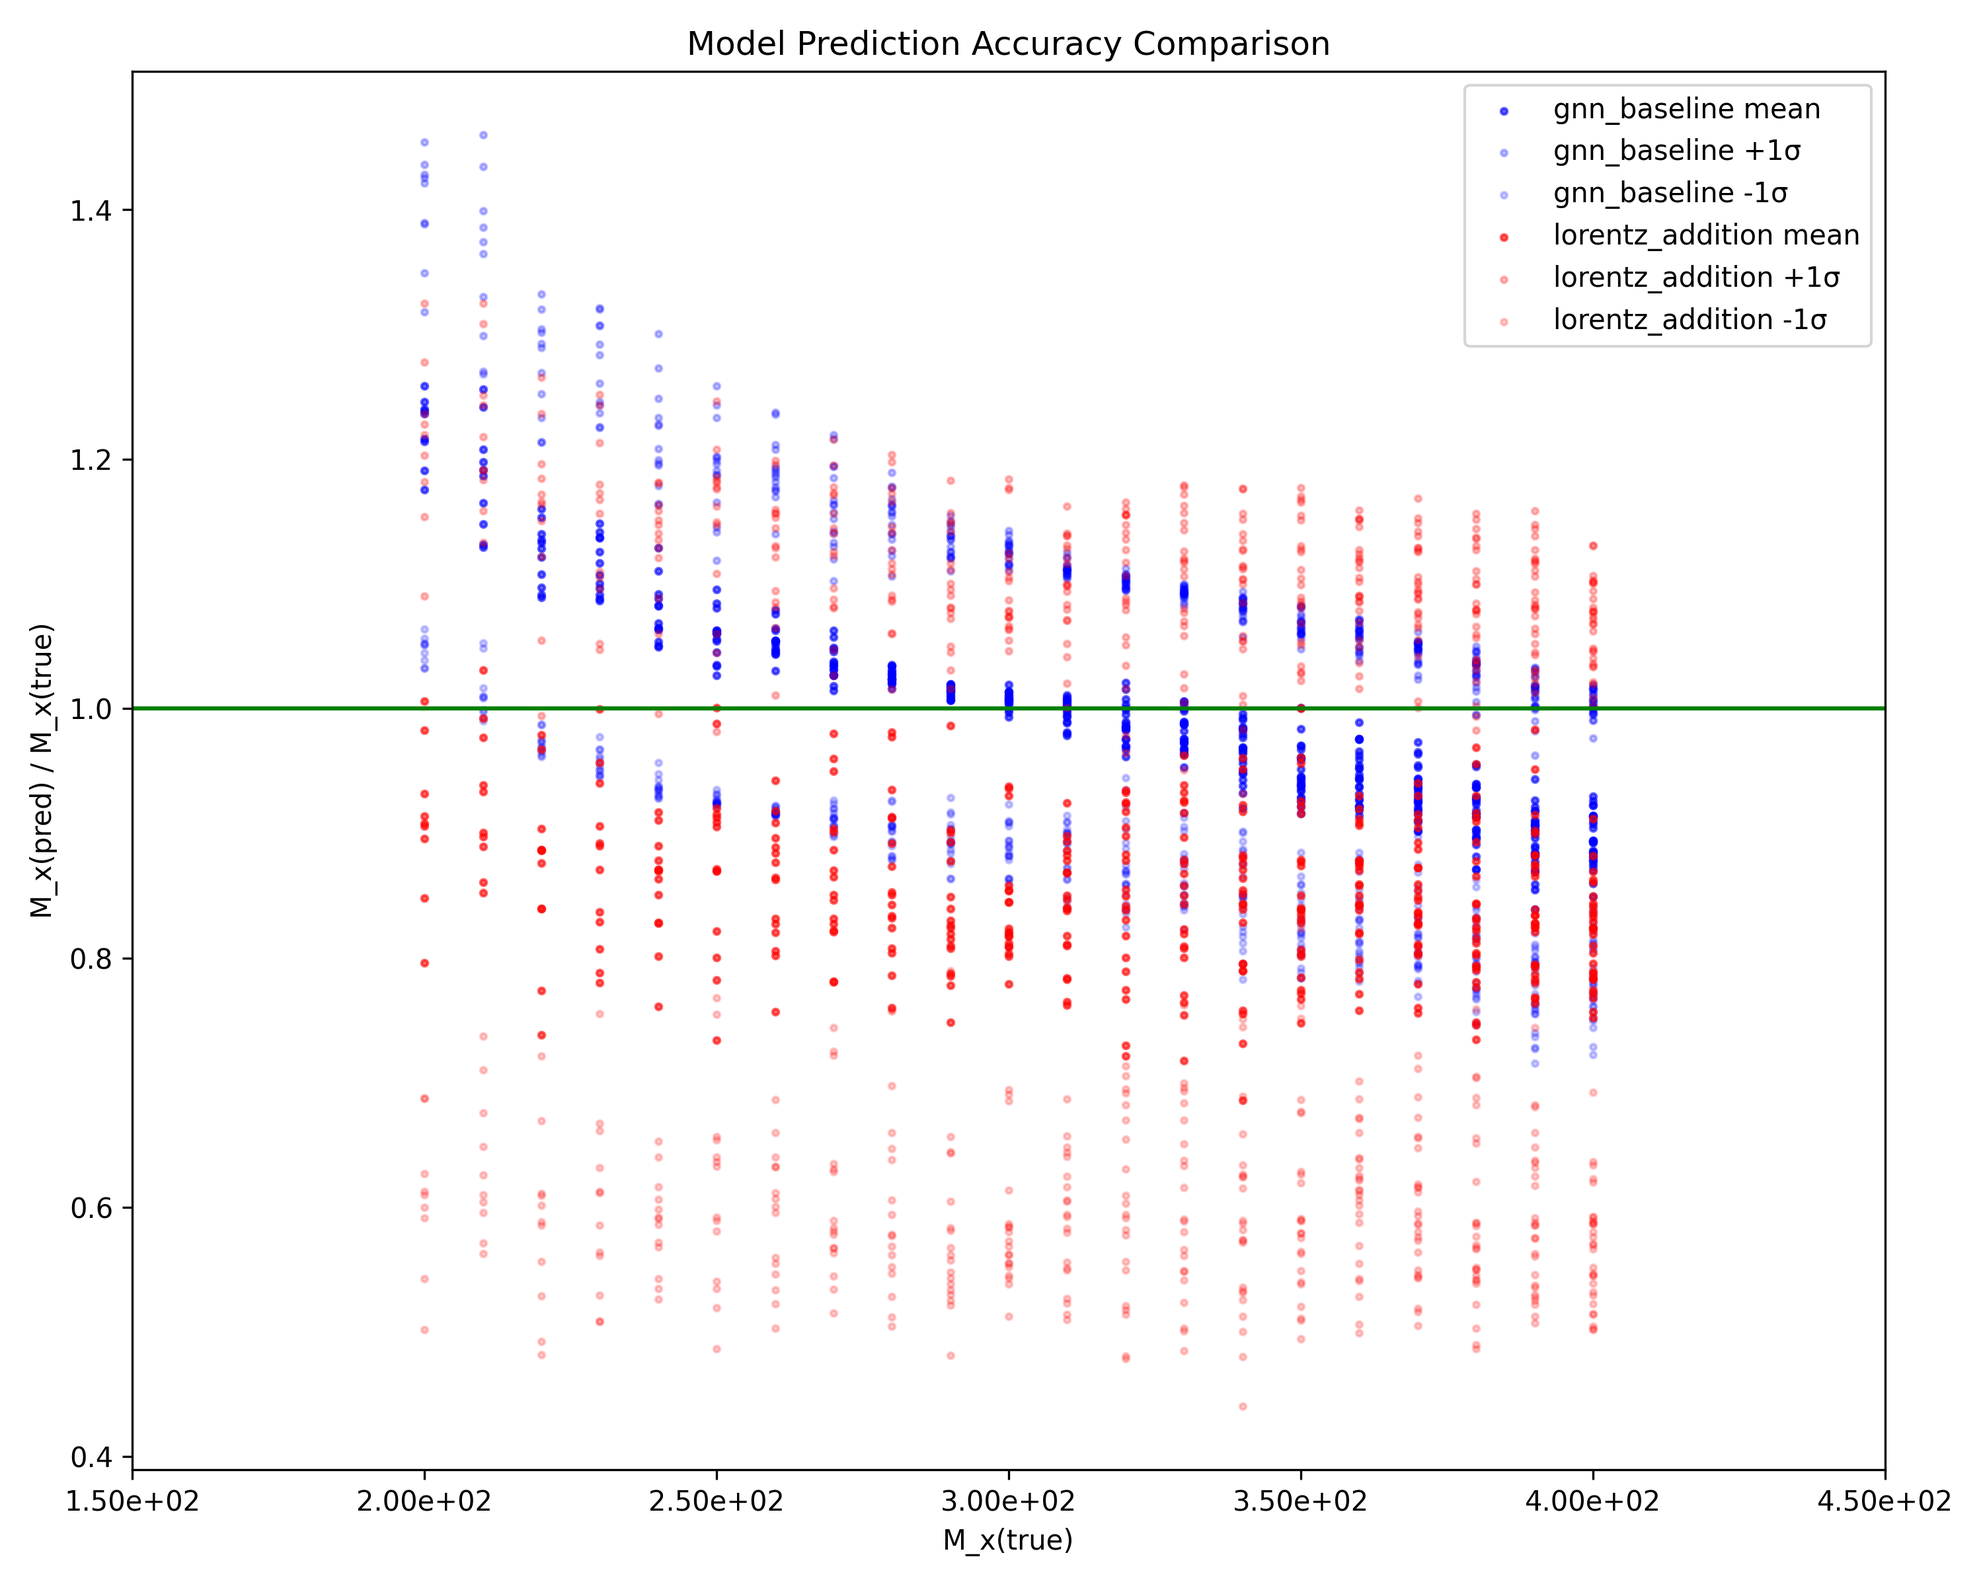
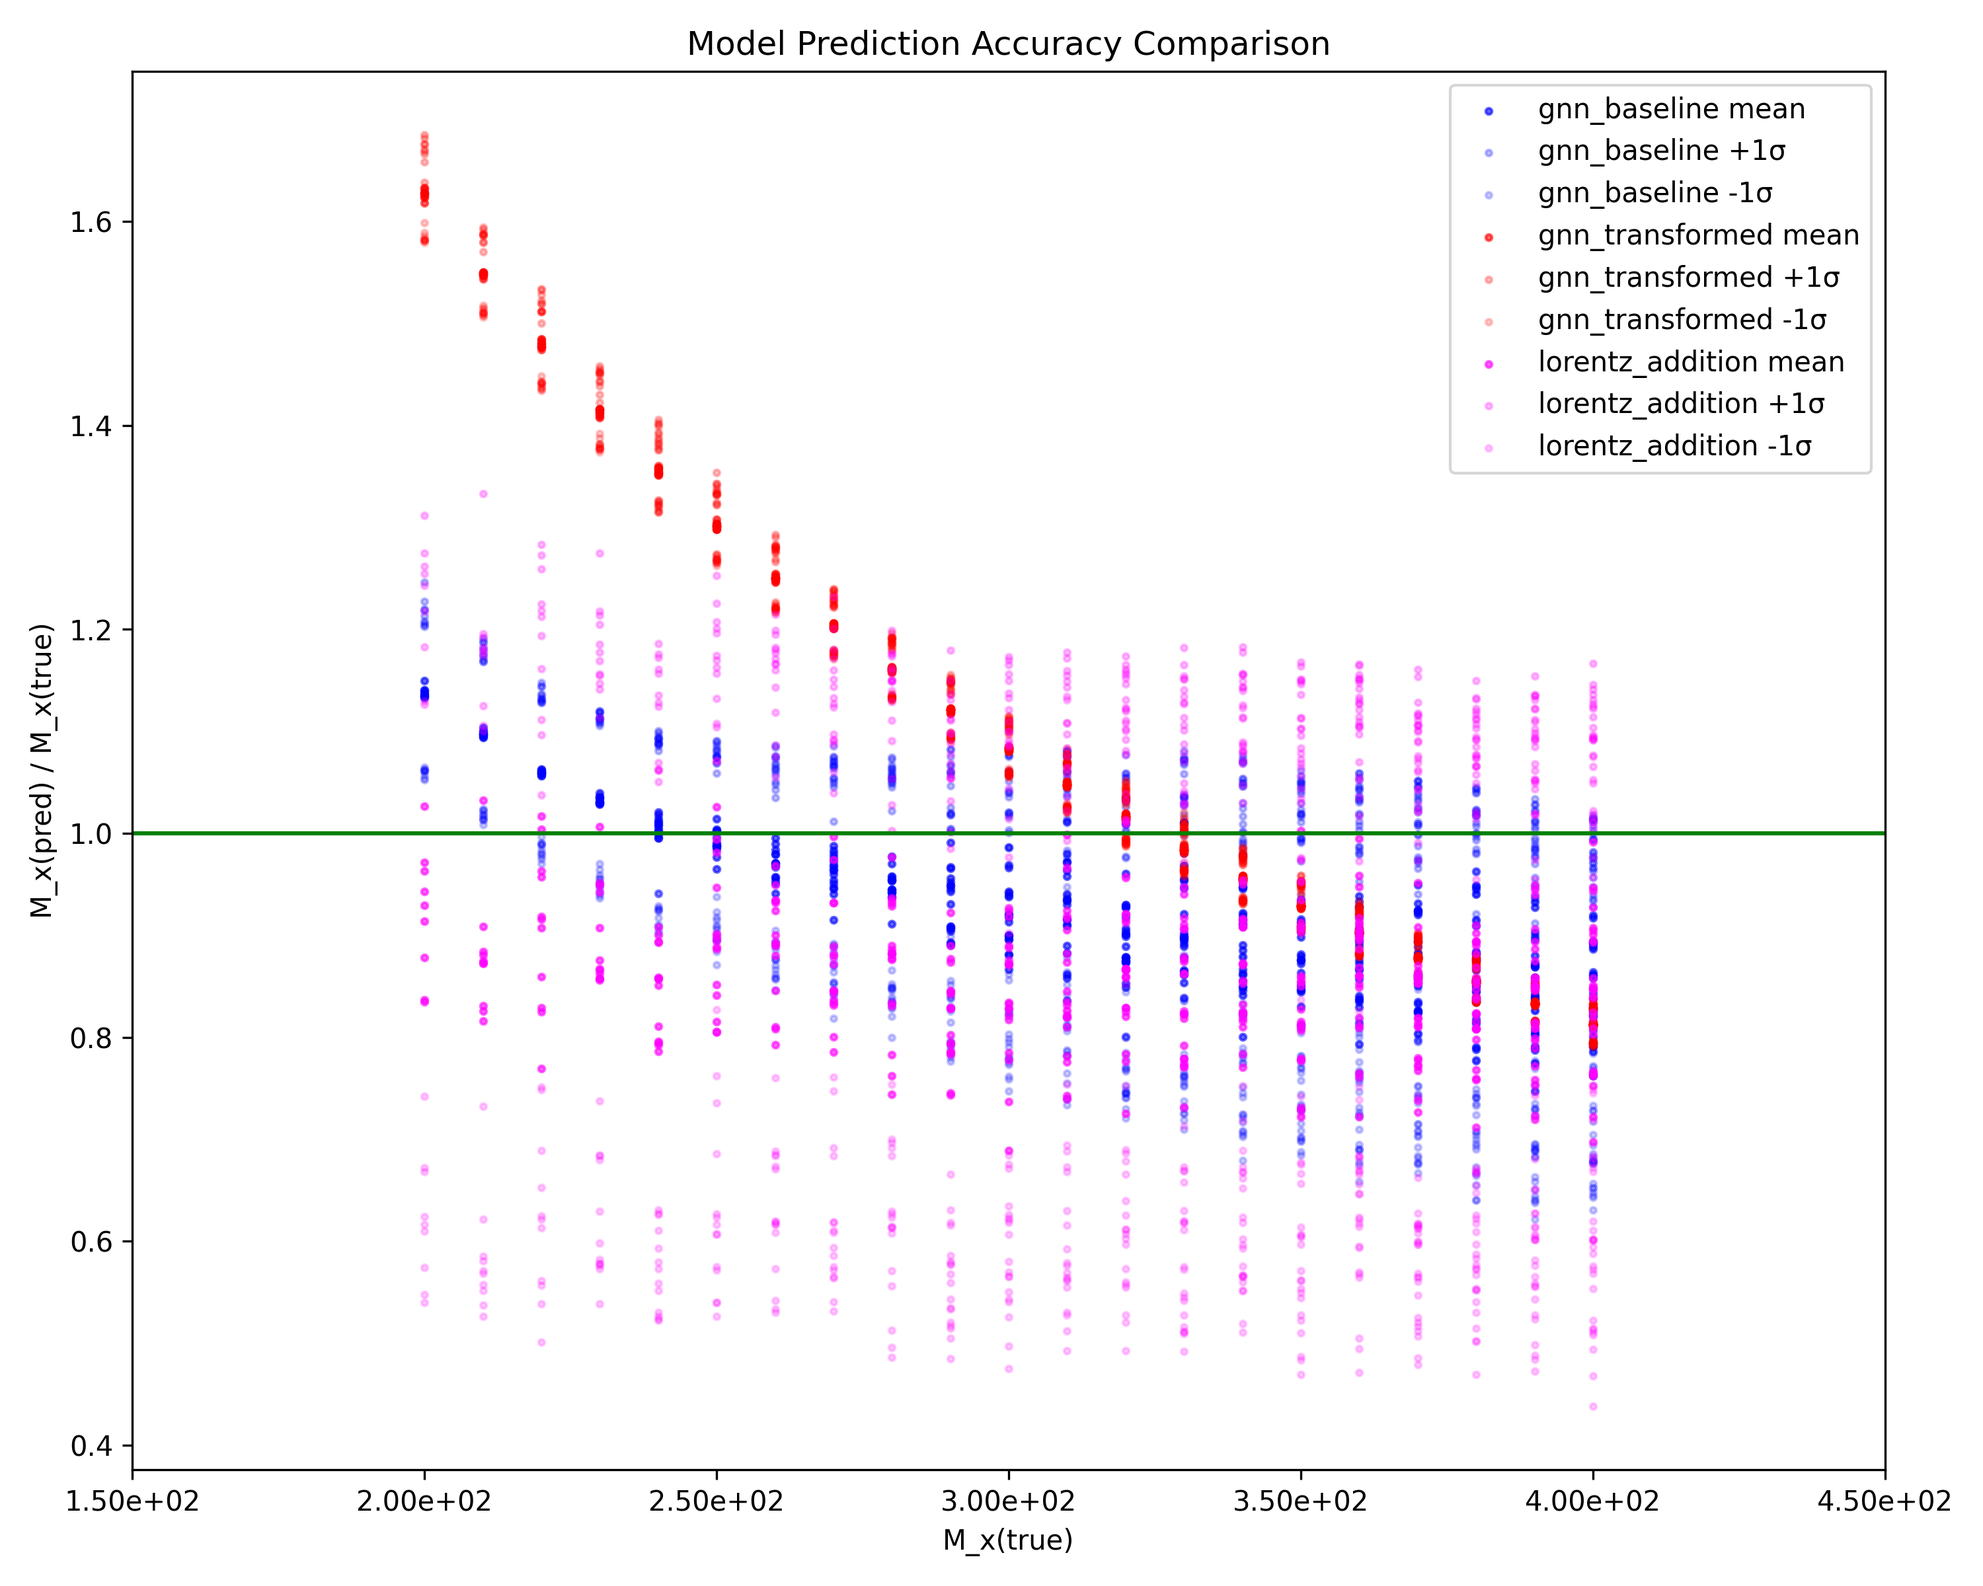
updating and documenting evaluation modules

diff --git a/model_comparison/transformed_same_event_type.py b/model_comparison/transformed_same_event_type.py
@@ -1,5 +1,19 @@
+"""
+Module Name: model_comparison/transformed_same_event_type
+
+Description:
+    Identical evaluation as same_event_type, a file by file comparison of models' performance. However, this module
+    first applies an augmentation to the input data.
+
+Usage:
+Author:
+Date:
+License:
+"""
 import os
 import sys
+
+os.environ['TF_CPP_MIN_LOG_LEVEL'] = '2'
 
 SCRIPT_DIR = os.path.dirname(os.path.abspath(__file__))
 ROOT_DIR = os.path.dirname(SCRIPT_DIR)
@@ -34,10 +48,19 @@ def main():
     
     gnn_baseline_model_path = os.path.join(ROOT_DIR, "gnn_baseline", f"model_{config.RUN_ID}", "best_model.keras")
     gnn_baseline_model = tf.keras.models.load_model(gnn_baseline_model_path)
+
+    gnn_transformed_model_path = os.path.join(ROOT_DIR, "gnn_transformed", f"model_{config.RUN_ID}", "best_model.keras")
+    gnn_transformed_model = tf.keras.models.load_model(gnn_transformed_model_path)
     
     # Setup model performance dictionary
     model_performance_dict = {
         "gnn_baseline": {
+            "M_x(true)": [],
+            "mean": [],
+            "+1σ": [],
+            "-1σ": [],
+        },
+        "gnn_transformed": {
             "M_x(true)": [],
             "mean": [],
             "+1σ": [],
@@ -55,25 +78,29 @@ def main():
     same_event_type_metrics = {}
     
     # Iterate across each file
-    for name in os.listdir(os.path.join(config.PROCESSED_DATA_DIRECTORY, "test")):
+    progress_bar = tqdm(os.listdir(os.path.join(config.PROCESSED_DATA_DIRECTORY, "test")))
+    for name in progress_bar:
+        progress_bar.set_description(f"Processing file {name}")
+        
         # Load in unscaled/untransposed data
-        print(f"Processing file {name}")
         test = np.load(os.path.join(config.PROCESSED_DATA_DIRECTORY, "test", name))
         X_test = test['X']
         y_test_flattened = test['y']
-        y_test = y_test_flattened.reshape(-1, 1)
 
-        # Predictions given by gnn_baseline
         X_test_scaled = scale_data(X_test, scalers, [0, 1, 2])
         X_test_scaled = X_test_scaled.transpose(0, 2, 1)
+        y_test = y_test_flattened.reshape(-1, 1)
+
+        test_batches = int(len(X_test_scaled) // config.BATCHSIZE)
         test_transformed = create_transformed_dataset(
             X_test_scaled, y_test, batchsize=config.BATCHSIZE, n_features=config.N_FEATURES
         )
-        test_batches = int(len(X_test_scaled) // config.BATCHSIZE)
+        test_transformed = test_transformed.take(test_batches)
 
+        # Predictions given by gnn_baseline
         y_gnn_baseline_list = []
         y_true_list = []
-        for features, labels in tqdm(test_transformed, desc="Processing batches", total=test_batches):
+        for features, labels in test_transformed:
             y_gnn_baseline_batch_scaled = gnn_baseline_model.predict(features, verbose=0)
             y_gnn_baseline_batch = y_scaler.inverse_transform(y_gnn_baseline_batch_scaled).flatten()
             y_gnn_baseline_list.append(y_gnn_baseline_batch)
@@ -88,18 +115,34 @@ def main():
         model_performance_dict["gnn_baseline"]["+1σ"].append(gnn_baseline_mean + gnn_baseline_std)
         model_performance_dict["gnn_baseline"]["-1σ"].append(gnn_baseline_mean - gnn_baseline_std)
 
+        # Predictions given by gnn_transformed
+        y_gnn_transformed_list = []
+        for features, labels in test_transformed:
+            y_gnn_transformed_batch_scaled = gnn_transformed_model.predict(features, verbose=0)
+            y_gnn_transformed_batch = y_scaler.inverse_transform(y_gnn_transformed_batch_scaled).flatten()
+            y_gnn_transformed_list.append(y_gnn_transformed_batch)
+        y_gnn_transformed = np.concatenate(y_gnn_transformed_list)
+        
+        gnn_transformed_mean = np.mean(y_gnn_transformed)
+        gnn_transformed_std = np.std(y_gnn_transformed)
+        model_performance_dict["gnn_transformed"]["M_x(true)"].append(y_true[0])
+        model_performance_dict["gnn_transformed"]["mean"].append(gnn_transformed_mean)
+        model_performance_dict["gnn_transformed"]["+1σ"].append(gnn_transformed_mean + gnn_transformed_std)
+        model_performance_dict["gnn_transformed"]["-1σ"].append(gnn_transformed_mean - gnn_transformed_std)
+
         # Predictions given by lorentz addition
         X_orig = X_test.transpose(0, 2, 1)
         orig_test_transformed = create_transformed_dataset(
             X_orig, y_test, batchsize=config.BATCHSIZE, n_features=config.N_FEATURES
         )
+        orig_test_transformed = orig_test_transformed.take(test_batches)
 
         y_lorentz_list = []
-        for features, labels in tqdm(orig_test_transformed, desc="Processing batches", total=test_batches):
+        for features, labels in orig_test_transformed:
             particles = features.numpy().transpose(0, 2, 1)
             particle_masses = np.zeros((particles.shape[0], particles.shape[1]))
-            y = vectorized_lorentz_addition(particles, particle_masses)
-            y_lorentz_list.append(y)
+            y_lorentz_batch = vectorized_lorentz_addition(particles, particle_masses)
+            y_lorentz_list.append(y_lorentz_batch)
         y_lorentz = np.concatenate(y_lorentz_list).flatten()
 
         lorentz_mean = np.mean(y_lorentz)
@@ -111,11 +154,13 @@ def main():
 
         # Log metrics and visualize selected event types
         if name in config.EVAL_DATA_FILES:
-            model_metrics = calculate_metrics(y_true, y_gnn_baseline, "gnn_baseline")
+            gnn_baseline_model_metrics = calculate_metrics(y_true, y_gnn_baseline, "gnn_baseline")
+            gnn_transformed_model_metrics = calculate_metrics(y_true, y_gnn_transformed, "gnn_transformed")
             lorentz_metrics = calculate_metrics(y_true, y_lorentz, "lorentz_addition")
 
             metrics = {
-                **model_metrics,
+                **gnn_baseline_model_metrics,
+                **gnn_transformed_model_metrics,
                 **lorentz_metrics
             }
             same_event_type_metrics[name[5:-4]] = metrics
@@ -130,6 +175,18 @@ def main():
                 title=f"Mass Regression for {name}",
                 x_label="Mass (GeV / c^2)",
                 filename=os.path.join(SCRIPT_DIR, f"transformed_dual_histograms/{name[5:-4]}.png")
+            )
+
+            create_2var_histogram_with_marker(
+                data1=y_gnn_transformed,
+                data_label1="GNN Transformed Prediction",
+                data2=y_gnn_baseline,
+                data_label2="GNN Baseline Prediction",
+                marker=y_true[0],
+                marker_label="True Mass",
+                title=f"Mass Regression for {name}",
+                x_label="Mass (GeV / c^2)",
+                filename=os.path.join(SCRIPT_DIR, f"transformed_dual_histograms/{name[5:-4]}_gnn.png")
             )
     
     compare_performance_all(

diff --git a/model_comparison/transformed_full_dataset.py b/model_comparison/transformed_full_dataset.py
@@ -1,3 +1,15 @@
+"""
+Module Name: model_comparison/full_dataset
+
+Description:
+    Identical evaluation as full_dataset, a comparison of models' performance on the full
+    test dataset. However, this module first applies an augmentation to the input data.
+
+Usage:
+Author:
+Date:
+License:
+"""
 import os
 import sys
 
@@ -24,23 +36,40 @@ def main():
 
     test_size = len(X)
     test_batches = int(test_size // config.BATCHSIZE)
+
     test_transformed = create_transformed_dataset(X, y, batchsize=config.BATCHSIZE, n_features=config.N_FEATURES)
-    
+    test_transformed = test_transformed.take(test_batches)
+
     gnn_baseline_model_path = os.path.join(config.ROOT_DIR, "gnn_baseline", f"model_{config.RUN_ID}", "best_model.keras")
-    model = tf.keras.models.load_model(gnn_baseline_model_path)
+    gnn_baseline_model = tf.keras.models.load_model(gnn_baseline_model_path)
 
     with open(os.path.join(config.PROCESSED_DATA_DIRECTORY, "y_scaler.pkl"), 'rb') as f:
         y_scaler = pickle.load(f)
     
     y_gnn_baseline_list = []
     y_true_list = []
-    for features, labels in tqdm(test_transformed, desc="Processing batches", total=test_batches):
-        y_gnn_baseline_batch_scaled = model.predict(features, verbose=0)
+    for features, labels in tqdm(test_transformed, desc="GNN Baseline", total=test_batches):
+        y_gnn_baseline_batch_scaled = gnn_baseline_model.predict(features, verbose=0)
         y_gnn_baseline_batch = y_scaler.inverse_transform(y_gnn_baseline_batch_scaled)
         y_gnn_baseline_list.append(y_gnn_baseline_batch)
         y_true_batch = y_scaler.inverse_transform(labels.numpy())
         y_true_list.append(y_true_batch)
     y_gnn_baseline = np.concatenate(y_gnn_baseline_list).flatten()
+    y_true = np.concatenate(y_true_list).flatten()
+
+    # Predictions given by gnn_transformed model
+    gnn_transformed_model_path = os.path.join(config.ROOT_DIR, "gnn_transformed", f"model_{config.RUN_ID}", "best_model.keras")
+    gnn_transformed_model = tf.keras.models.load_model(gnn_transformed_model_path)
+    
+    y_gnn_transformed_list = []
+    y_true_list = []
+    for features, labels in tqdm(test_transformed, desc="GNN Transformed", total=test_batches):
+        y_gnn_transformed_batch_scaled = gnn_transformed_model.predict(features, verbose=0)
+        y_gnn_transformed_batch = y_scaler.inverse_transform(y_gnn_transformed_batch_scaled)
+        y_gnn_transformed_list.append(y_gnn_transformed_batch)
+        y_true_batch = y_scaler.inverse_transform(labels.numpy())
+        y_true_list.append(y_true_batch)
+    y_gnn_transformed = np.concatenate(y_gnn_transformed_list).flatten()
     y_true = np.concatenate(y_true_list).flatten()
 
     # Predictions given by naive lorentz addition
@@ -49,14 +78,12 @@ def main():
     X_orig = X_orig.transpose(0, 2, 1)
     y_orig = y_orig.reshape(-1, 1)
 
-    test_size = len(X_orig)
-    test_batches = int(test_size // config.BATCHSIZE)
-
     test_orig_transformed = create_transformed_dataset(X_orig, y_orig, batchsize=config.BATCHSIZE, n_features=config.N_FEATURES)
+    test_orig_transformed = test_orig_transformed.take(test_batches)
 
     y_lorentz_list = []
     y_lorentz_true_list = []
-    for features, labels in tqdm(test_orig_transformed, desc="Processing batches", total=test_batches):
+    for features, labels in tqdm(test_orig_transformed, desc="Lorentz Addition", total=test_batches):
         particles = features.numpy().transpose(0, 2, 1)
         particle_masses = np.zeros((particles.shape[0], particles.shape[1]))
         y = vectorized_lorentz_addition(particles, particle_masses)
@@ -65,11 +92,13 @@ def main():
     y_lorentz = np.concatenate(y_lorentz_list).flatten()
     y_lorentz_true = np.concatenate(y_lorentz_true_list).flatten()
 
-    model_metrics = calculate_metrics(y_true, y_gnn_baseline, "gnn_baseline")
+    baseline_model_metrics = calculate_metrics(y_true, y_gnn_baseline, "gnn_baseline")
+    transformed_model_metrics = calculate_metrics(y_true, y_gnn_transformed, "gnn_transformed")
     lorentz_metrics = calculate_metrics(y_lorentz_true, y_lorentz, "lorentz_addition")
 
     metrics = {
-        **model_metrics,
+        **baseline_model_metrics,
+        **transformed_model_metrics,
         **lorentz_metrics
     }
     with open(os.path.join(SCRIPT_DIR, "transformed_metrics.json"), 'w') as f:

diff --git a/transformation.py b/transformation.py
@@ -1,9 +1,24 @@
+"""
+Module Name: transformation
+
+Description:
+    This module provides generators that augment the inputs in a dataset, for use in Contrastive Learning
+    and evaluation of model performance on distorted inputs. ViewPairsGenerator creates two
+    independently-augmented views of the same input. ViewTransformedGenerator outputs a single augmentation
+    of the input. The preferred way to use these generators is through the associated helper functions, which
+    create a pipeline through which the original Tensorflow Dataset is augmented.
+
+Usage:
+Author:
+Date:
+License:
+"""
+
 import numpy as np
 import tensorflow as tf
 
 
 class ViewPairsGenerator:
-    """Data generator that applies random transformations to create view pairs"""
     def __init__(self, dataset):
         self.dataset = dataset
         self.TRANSFORMATIONS = [

diff --git a/simCLR_model.py b/simCLR_model.py
@@ -1,3 +1,18 @@
+"""
+Module Name: SimCLR_Model
+
+Description:
+    This module provides a custom Tensorflow Model for SimCLR contrastive learning. The SimCLRModel is
+    internally composed of an encoder linked to a projection head. The encoder is a standard GNN
+    followed by dense layers. The projection head is a simple model with only dense layers. To improve
+    learning, the SimCLR loss function is applied to the output of the projection head. For downstream
+    tasks however, the embeddings produced by the encoder are used.
+
+Usage:
+Author:
+Date:
+License:
+"""
 import tensorflow as tf
 
 from graph_embeddings import *

diff --git a/model_comparison/same_event_type.py b/model_comparison/same_event_type.py
@@ -1,3 +1,17 @@
+"""
+Module Name: model_comparison/same_event_type
+
+Description:
+    This module compares each model's performance by event type. It evaluates the models on the original test
+    dataset, one file at a time. Artifacts include performance metrics and dual histograms for a select
+    subset of files, and an accuracy plot across all files, to visualize models' performance across different
+    event types.
+
+Usage:
+Author:
+Date:
+License:
+"""
 import os
 import sys
 

diff --git a/gnn_baseline/gnn.py b/gnn_baseline/gnn.py
@@ -2,9 +2,8 @@
 Module Name: gnn
 
 Description:
-    This module uses supervised learning to predict the mass of intermediate SUSY particles.
-    The architecture is a standard GNN, with dense layers after that outputs a single value for
-    mass.
+    This module trains and evaluates a supervised learning model to predict the mass of intermediate SUSY particles.
+    The architecture is a standard GNN, with dense layers afterwards that compute a single float value.
 
 Usage:
 Author:

diff --git a/lorentz_addition/lorentz_addition.py b/lorentz_addition/lorentz_addition.py
@@ -3,7 +3,8 @@ Module Name: lorentz_addition
 
 Description:
     This module handles inspecting the preprocessed numpy files, to verify that the data is correct.
-    It also attempts a naive lorentz addition of the decay chain products, with MET_eta = 0
+    It also attempts to compute unknwon particle mass with a naive lorentz addition of the decay chain
+    products (set MET_eta = 0)
 
 Usage:
 Author:

diff --git a/gnn_transformed/gnn_transformed.py b/gnn_transformed/gnn_transformed.py
@@ -1,3 +1,15 @@
+"""
+Module Name: gnn_transformed
+
+Description:
+    This module trains and evaluates the same GNN model as the baseline. However, the training
+    dataset is randomly augmented with transformations that distort the particle data.
+
+Usage:
+Author:
+Date:
+License:
+"""
 import os
 import sys
 

diff --git a/model_comparison/full_dataset.py b/model_comparison/full_dataset.py
@@ -1,3 +1,15 @@
+"""
+Module Name: model_comparison/full_dataset
+
+Description:
+    This module compares each model's performance on the full, original test dataset. Performance metrics are
+    logged to metrics.json.     
+
+Usage:
+Author:
+Date:
+License:
+"""
 import os
 import sys
 
